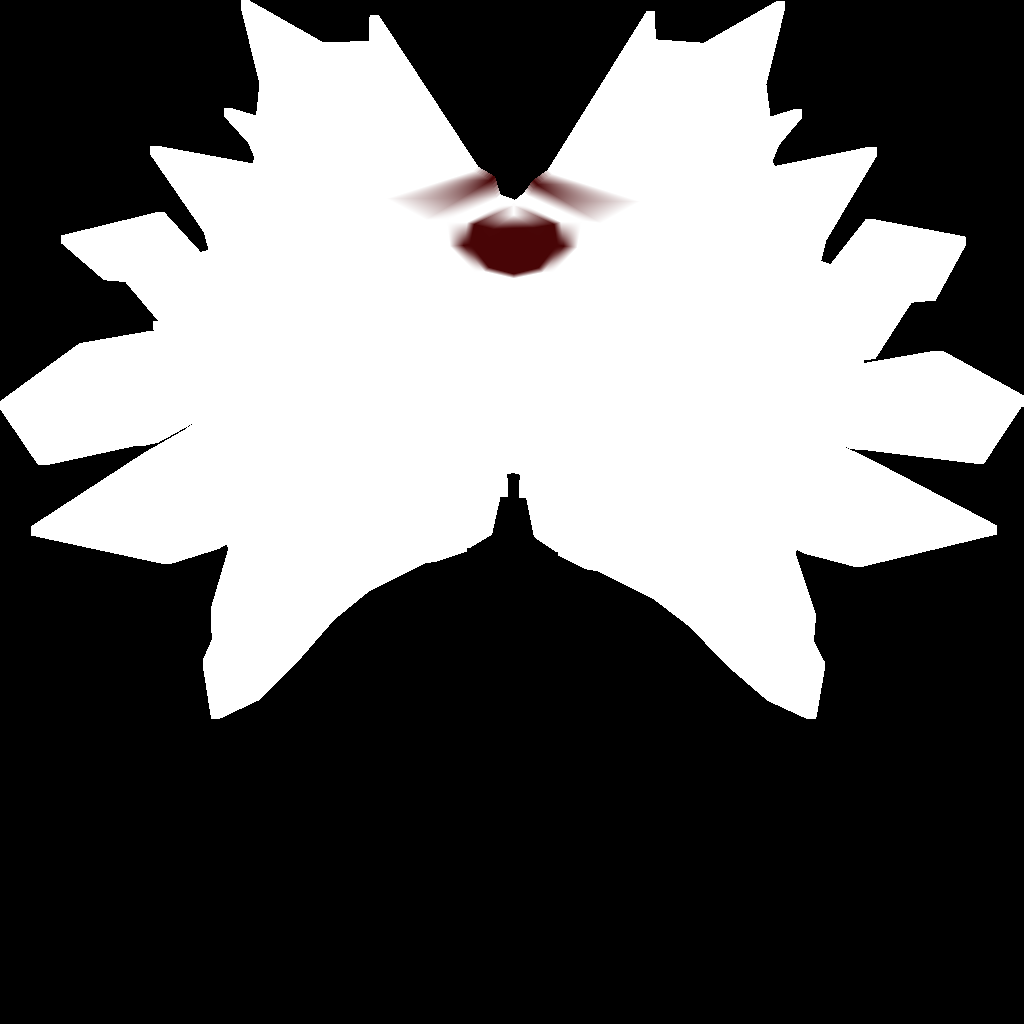
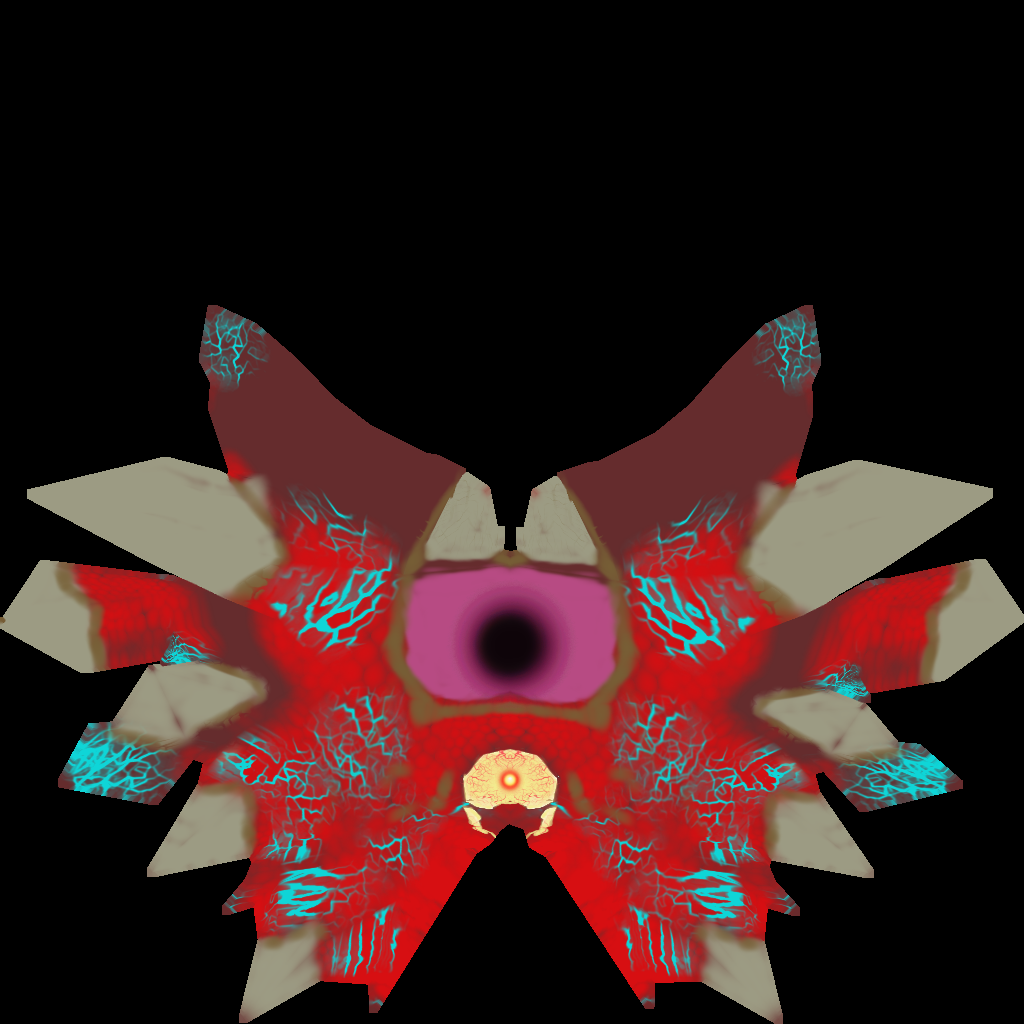
Monster edits

diff --git a/objects/monster.js b/objects/monster.js
@@ -1,19 +1,17 @@
 var objectLoader = require('./objectLoader');
 
 var exports = module.exports = function (details) {
-
-  var geometry = new THREE.CubeGeometry(0.4,0.4, 0.4);
-  var material = new THREE.MeshBasicMaterial({color: 0xFFFFFF});
-  // this.object = new THREE.Mesh(geometry, material);
   this.object = objectLoader.getObject('Monster');
   this.object.scale.x = 0.03;
   this.object.scale.y = 0.03;
   this.object.scale.z = 0.03;
-  // this.object.material.depthTest = false;
-  this.object.material = material;
+  this.object.rotation.y = Math.PI;
 
   this.object.position.set(10,-5,0.5);
-  // this.object.rotation.set(1.4,0,0);
+
+  var light = new THREE.PointLight(0xAA0000);
+  light.position.z = -3;
+  this.object.add(light);
 
   // The direction the monster is facing:
   this.faceX = +1;

diff --git a/objects/objectLoader.js b/objects/objectLoader.js
@@ -360,10 +360,11 @@ ObjectLoader.prototype.loadObject = function(url) {
   // var specular = this.textureLoader.getTexture('spark');
   var normal = this.textureLoader.getNormal(url);
 
-  var material = new THREE.MeshPhongMaterial({color:0xFFFFFF, specular:0x222222});
+  var material = new THREE.MeshPhongMaterial({color:0xDDDDDD, specular:0x222222});
   material.map = texture;
-  material.bumpMap = normal;
-  material.bumpScale = 0.5;
+  material.normalMap = normal;
+  // material.normalScale = new THREE.Vector3(0.5,0.5);
+  // material.bumpScale = 0.5;
   // material.specularMap = specular;
   material.needsUpdate = true;
 
